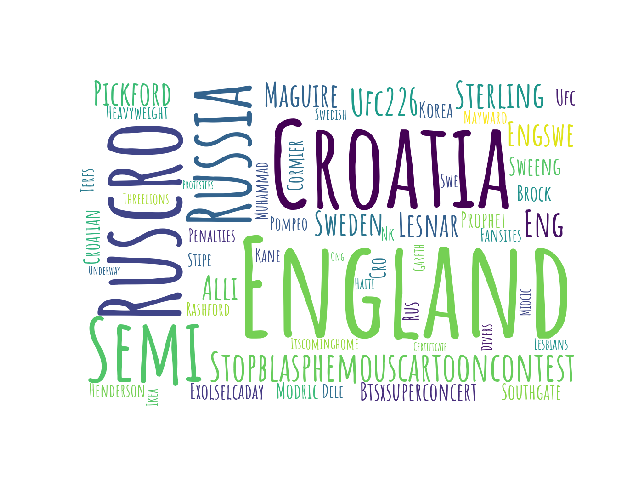
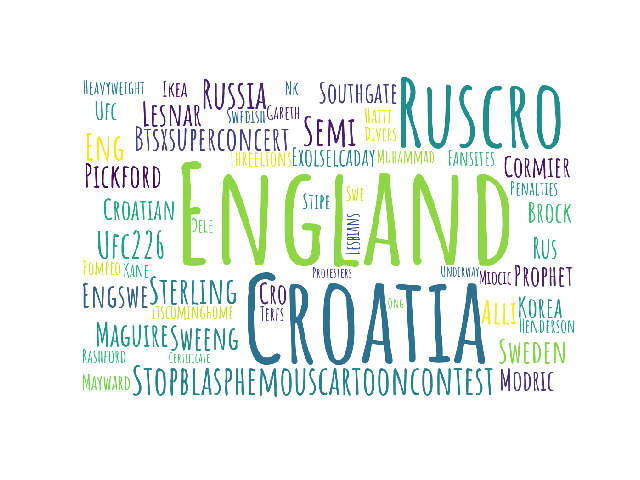
trend-20180714

Changed region(s): [[0.125, 0.1562, 0.9062, 0.8438]]

diff --git a/word_cloud.py b/word_cloud.py
@@ -3,20 +3,26 @@ from wordcloud import WordCloud
 from random import shuffle 
 import math, sys, os
 
-directory = './tweets-trend/' if len(sys.argv)<2 else sys.argv[1]
+filename = '' if len(sys.argv)<2 else sys.argv[1]
 
-for file in os.listdir(directory):
+def generate_word_cloud(file):
     words = []
-    corpus = {}
-    if os.path.isfile(directory+file):
-        with open(directory+file, 'r', encoding='utf-8') as r:
-            for line in r.readlines():
-                if '.' in line.split(',')[1]:
-                    word, count = line.split(',')[0].capitalize(), int(math.sqrt(float(line.split(',')[1])*1e5*float(line.split(',')[2])))
-                    if len(word) > 1:
-                        words.extend([word]*count)
-        shuffle(words)
-        my_wordcloud = WordCloud(relative_scaling=0.5, width=1080, height=720, max_words=100, min_font_size=20, font_path='./font/AmaticSC-Bold.ttf', margin=0, background_color='white').generate(' '.join(words))
-        plt.imshow(my_wordcloud)
-        plt.axis("off")
-        plt.savefig('./word-cloud/'+file.split('.')[0]+'.png')
+    with open(file, 'r', encoding='utf-8') as r:
+        for line in r.readlines():
+            if '.' in line.split(',')[1]:
+                word, count = line.split(',')[0].capitalize(), int(math.sqrt(float(line.split(',')[1])*1e5*float(line.split(',')[2])))
+                if len(word) > 1:
+                    words.extend([word]*count)
+    shuffle(words)
+    my_wordcloud = WordCloud(relative_scaling=0.5, width=1080, height=720, max_words=100, font_path='./font/AmaticSC-Bold.ttf', margin=0, background_color='white').generate(' '.join(words))
+    plt.imshow(my_wordcloud)
+    plt.axis("off")
+    plt.savefig('./word-cloud/'+file.split('/')[-1].split('.')[0]+'.png')
+
+if filename:
+    generate_word_cloud(filename)
+else:
+    directory = './tweets-trend/'
+    for file in os.listdir(directory):
+        if os.path.isfile(directory+file):
+            generate_word_cloud(directory+file)
